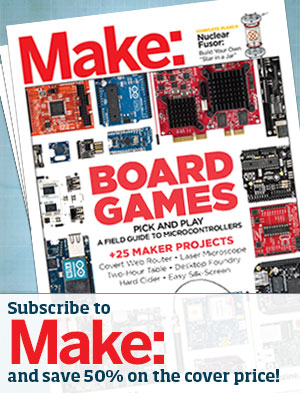
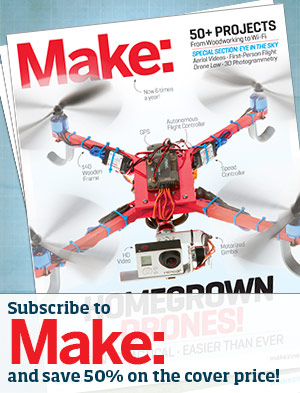
Update magazine ad in footer with new cover

diff --git a/footer.php b/footer.php
@@ -33,7 +33,7 @@
 							
 				<div class="span4">
                     <a href="https://www.pubservice.com/MK/subscribe.aspx?PC=MK&PK=M3AMFB">
-                        <img src="<?php bloginfo('stylesheet_directory'); ?>/images/mf_subscribe_ad.gif" alt="Subscribe to MAKE magazine!" />
+                    	<img src="<?php echo get_stylesheet_directory_uri(); ?>/images/mf_subscribe_ad.jpg" alt="Subscribe to MAKE magazine!" width="300" height="393" />
                     </a>
                 </div><!--subad-->
 		
